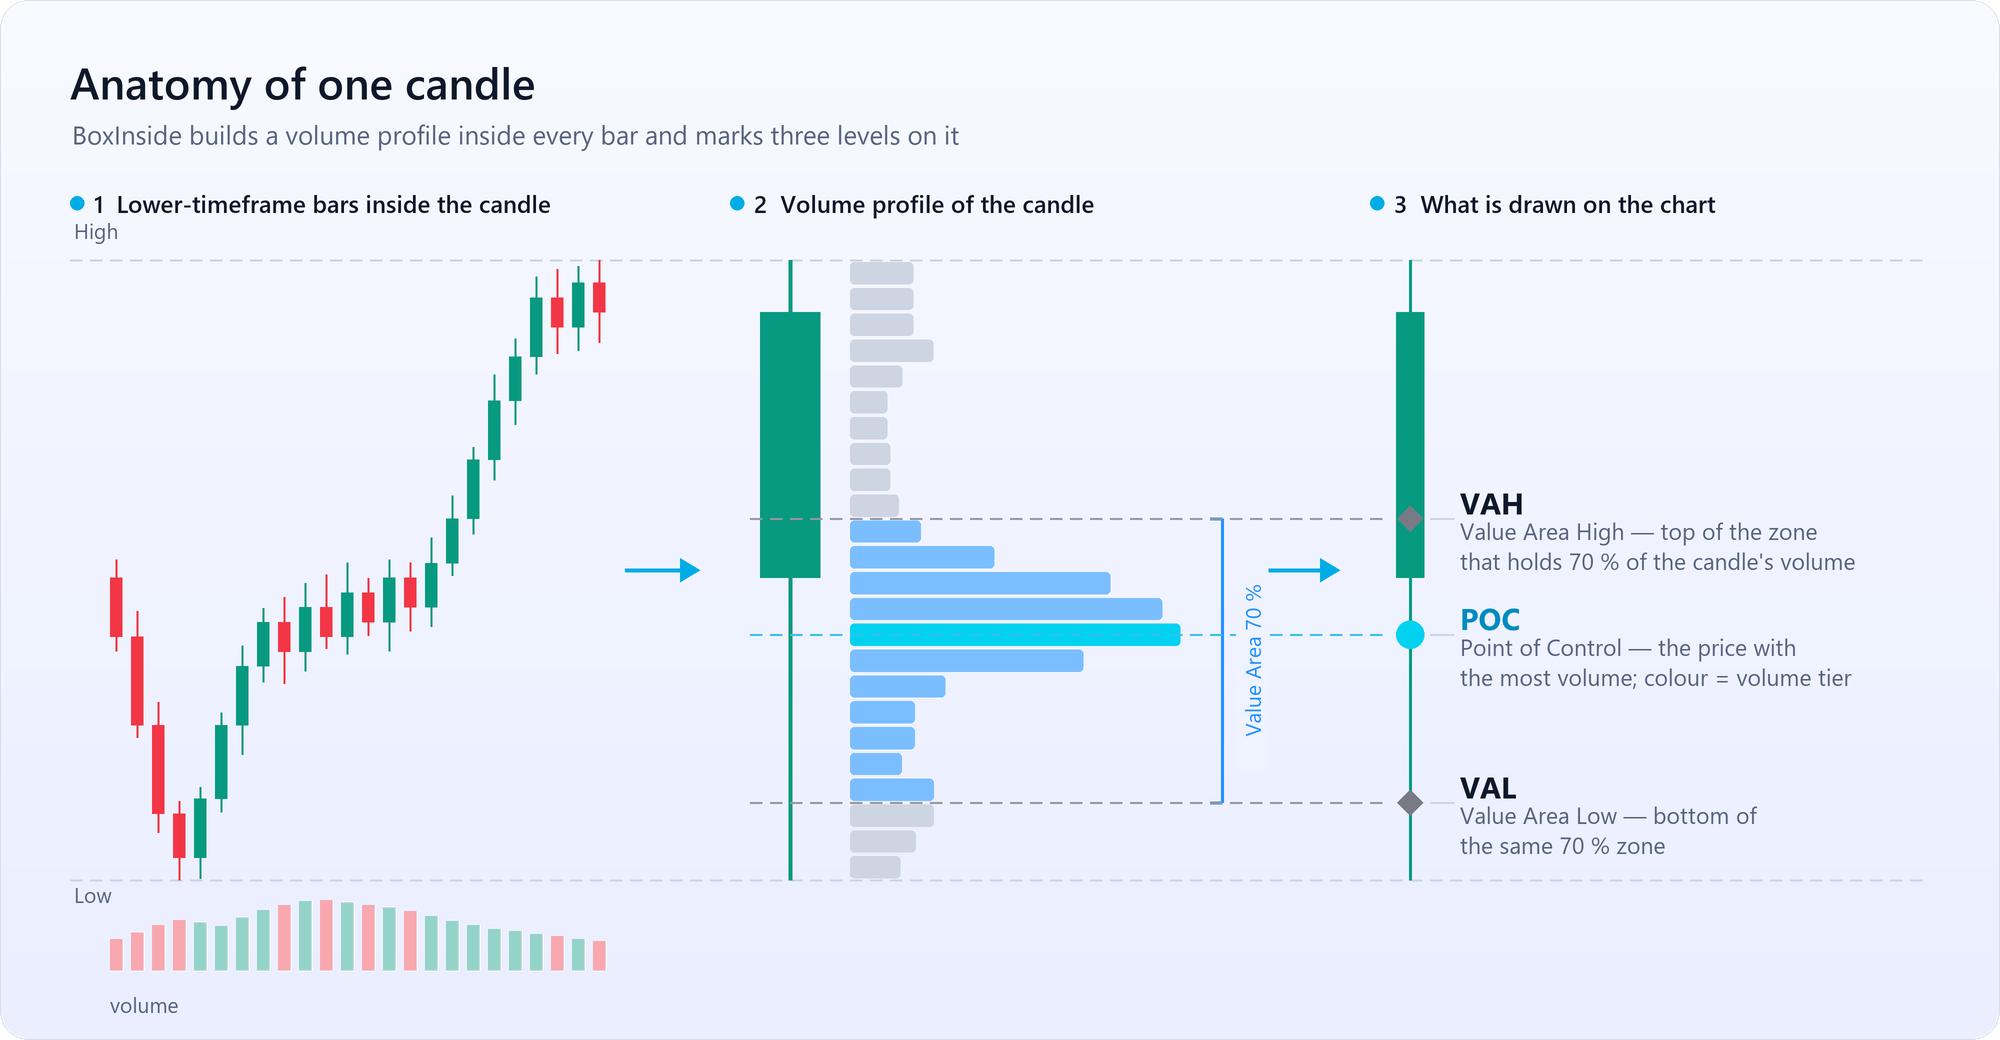
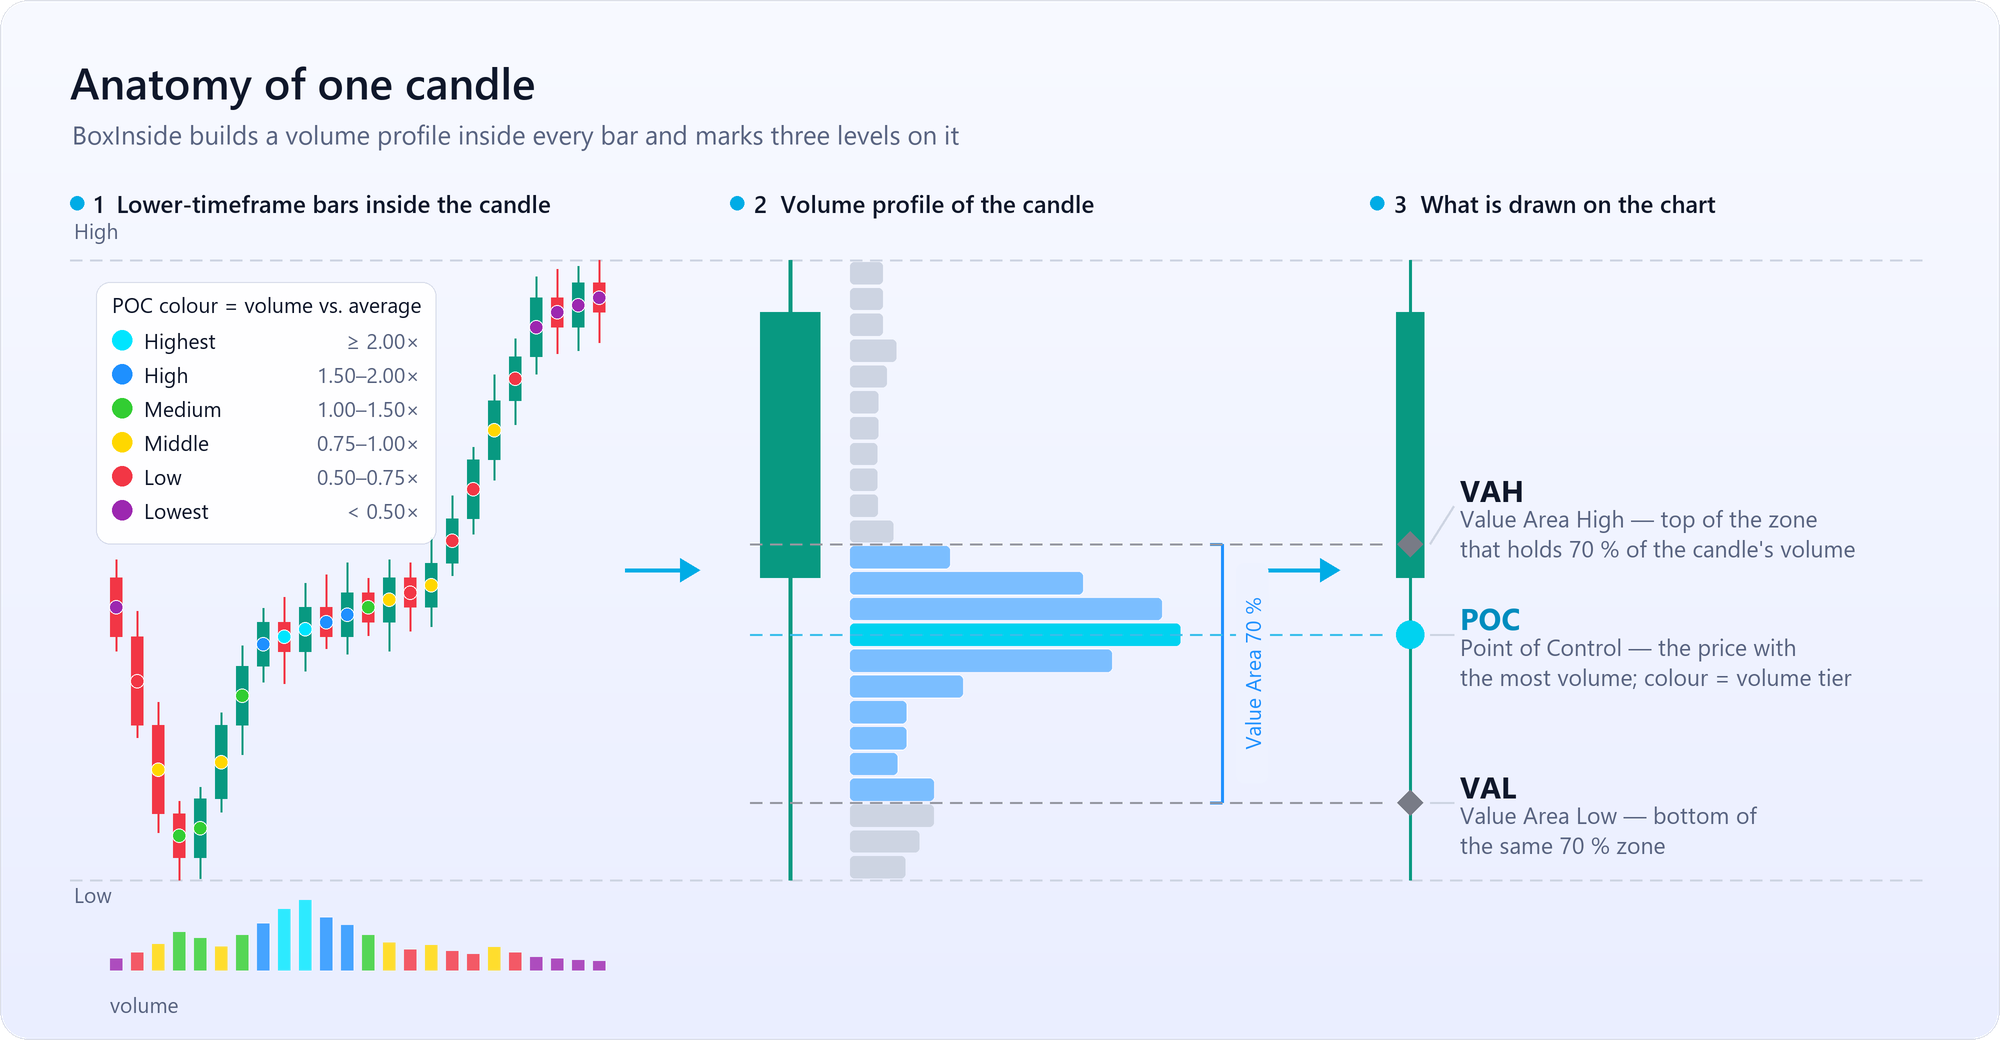
Anatomy: volume tier colours; README tier swatches
- docs/anatomy*.png: every lower-timeframe bar carries a POC dot in its
  volume tier colour, volume bars use the same colours, and a legend
  shows the six tiers with their Ratio to average thresholds
- README.md / README.ru.md: the 🩵 emoji (Unicode 15) is missing on many
  systems, so the colour column now uses docs/tiers/*.png swatches in
  the indicator's exact colours

diff --git a/README.ru.md b/README.ru.md
@@ -85,12 +85,12 @@
 
 | Цвет | Градация    | Объём POC относительно среднего |
 | :--: | ----------- | :-----------------------------: |
-|  🩵  | **Highest** |            ≥ 2.00×              |
-|  🔵  | **High**    |          1.50 – 2.00×           |
-|  🟢  | **Medium**  |          1.00 – 1.50×           |
-|  🟡  | **Middle**  |          0.75 – 1.00×           |
-|  🔴  | **Low**     |          0.50 – 0.75×           |
-|  🟣  | **Lowest**  |            < 0.50×              |
+|  <img src="docs/tiers/highest.png" width="16" height="16" alt="Highest">  | **Highest** |            ≥ 2.00×              |
+|  <img src="docs/tiers/high.png" width="16" height="16" alt="High">  | **High**    |          1.50 – 2.00×           |
+|  <img src="docs/tiers/medium.png" width="16" height="16" alt="Medium">  | **Medium**  |          1.00 – 1.50×           |
+|  <img src="docs/tiers/middle.png" width="16" height="16" alt="Middle">  | **Middle**  |          0.75 – 1.00×           |
+|  <img src="docs/tiers/low.png" width="16" height="16" alt="Low">  | **Low**     |          0.50 – 0.75×           |
+|  <img src="docs/tiers/lowest.png" width="16" height="16" alt="Lowest">  | **Lowest**  |            < 0.50×              |
 
 > ⚠ Как и в оригинале, положение и цвет меток на **текущей (незакрытой) свече** окончательны только
 > ближе к её закрытию. На закрытых свечах индикатор не перерисовывается.

diff --git a/README.md b/README.md
@@ -89,12 +89,12 @@ The POC colour shows the volume at the POC compared with previous candles (defau
 
 | Colour | Tier        | POC volume vs. average |
 | :----: | ----------- | :--------------------: |
-|   🩵   | **Highest** |       ≥ 2.00×          |
-|   🔵   | **High**    |     1.50 – 2.00×       |
-|   🟢   | **Medium**  |     1.00 – 1.50×       |
-|   🟡   | **Middle**  |     0.75 – 1.00×       |
-|   🔴   | **Low**     |     0.50 – 0.75×       |
-|   🟣   | **Lowest**  |       < 0.50×          |
+|   <img src="docs/tiers/highest.png" width="16" height="16" alt="Highest">   | **Highest** |       ≥ 2.00×          |
+|   <img src="docs/tiers/high.png" width="16" height="16" alt="High">   | **High**    |     1.50 – 2.00×       |
+|   <img src="docs/tiers/medium.png" width="16" height="16" alt="Medium">   | **Medium**  |     1.00 – 1.50×       |
+|   <img src="docs/tiers/middle.png" width="16" height="16" alt="Middle">   | **Middle**  |     0.75 – 1.00×       |
+|   <img src="docs/tiers/low.png" width="16" height="16" alt="Low">   | **Low**     |     0.50 – 0.75×       |
+|   <img src="docs/tiers/lowest.png" width="16" height="16" alt="Lowest">   | **Lowest**  |       < 0.50×          |
 
 > ⚠ As in the original, the position and colour of the marks on the **current, still-forming
 > candle** become final only close to its close. Closed candles are never redrawn.
